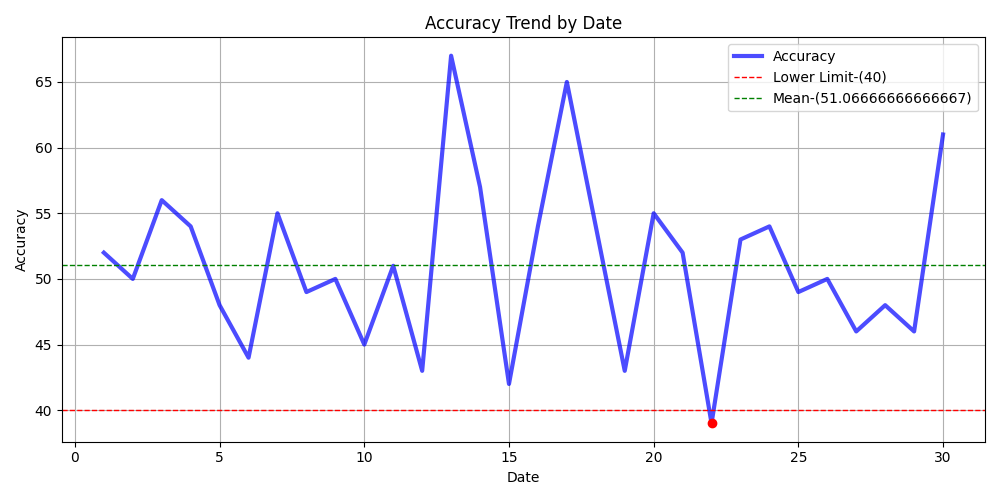
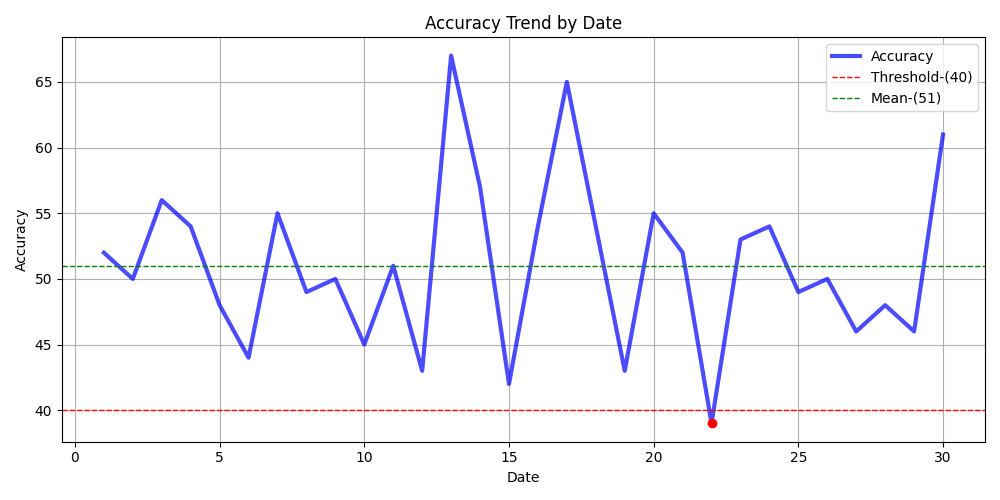
Model accuracy page modified

Changed region(s): [[0.062, 0.51, 0.992, 0.54], [0.713, 0.09, 0.992, 0.21]]

diff --git a/client/templates/Client/modelAccuracy.html b/client/templates/Client/modelAccuracy.html
@@ -10,27 +10,39 @@
 
     <div class="alert alert-info" role="alert">
         <b><h4>Description:</h4></b>
-        Number of times candidates were classified as Genuine as a percentage of times when they should have been classified as Genuine. 
-        <br>TNR = True Negative / (True Negative + False Positive)
+        Number of times candidates were classified as Suspect as a percentage of times when they should have been classified as Suspect. 
+        <br>TPR = True Positive / (True Positive + False Negative)
     </div>
     
     <!-- Overall Specificity -->
     <div class="card shadow-lg mb-4">
         <div class="card-body text-center">
             <h3 class="text-primary font-weight-bold">Overall Specificity as on {{ on_date|date:"d-m-y" }}</h3>
-            <h2 class="text-success font-weight-bold">{{ overall_tnr }}%</h2>
+            <h2 class="text-success font-weight-bold">{{ overall_tpr }}%</h2>
         </div>
     </div>
     
     <!-- Accuracy Trend by Date and Gender -->
     <div class="text-center mb-4">
-        <h3 class="text-secondary font-weight-bold">Specificity Trend by Date and Gender</h3>
+        <h3 class="text-secondary font-weight-bold">Sensitivity Trend for Men</h3>
     </div>
     
     <div class="card shadow-lg mb-5">
         <div class="card-body">
             <div class="graph-container text-center">
-                <img src="/{{ graph }}" alt="Specificity Trend Graph" class="img-fluid rounded mx-auto d-block">
+                <img src="/{{ graph.Male }}" alt="Sensitivity Trend Graph for Men" class="img-fluid rounded mx-auto d-block">
+            </div>
+        </div>
+    </div>
+
+    <div class="text-center mb-4">
+        <h3 class="text-secondary font-weight-bold">Sensitivity Trend for Women</h3>
+    </div>
+
+    <div class="card shadow-lg mb-5">
+        <div class="card-body">
+            <div class="graph-container text-center">
+                <img src="/{{ graph.Female }}" alt="Sensitivity Trend Graph for Women" class="img-fluid rounded mx-auto d-block">
             </div>
         </div>
     </div>
@@ -57,13 +69,17 @@
         <ul class="list-group">
             {% for city, observations in location_table.items %}
                 {% with rpn=observations|get_item:'RPN' %}
-                    <li class="list-group-item 
-                        {% if rpn > 6 %} text-danger {% elif rpn >= 4 %} text-warning {% else %} text-success {% endif %}">
+                    <li class="list-group-item">
                         <b>{{ city }}</b> has a Risk Priority Number of <strong>{{ rpn }}</strong>
                     </li>
                 {% endwith %}
             {% endfor %}
         </ul>
+    </div>
+
+    <div class="container mt-4">
+        <h5><strong>{{high_rpn_location}}</strong> has a high risk priority number because of a combination of high associate count and low accuracy.</h5>
+        <h5><strong>{{high_rpn_gender}}</strong> have a high risk priority number because of a combination of high associate count and low accuracy.</h5>
     </div>
 
 </div>

diff --git a/client/templates/Client/overallAccuracy.html b/client/templates/Client/overallAccuracy.html
@@ -85,7 +85,7 @@
             <br>
             This is a good starting point to start tracking the model effectiveness and
             can be easily used by leadership to check if the model is decaying or if
-            there is an issue with the data in any speci c Location, Gender or Age
+            there is an issue with the data in any specific Location, Gender or Age
             Group. <br><br>
             Based on the above observation - the organization will need to ag this
             data to the AI Service provider who will need to do a feature-level drill

diff --git a/client/views.py b/client/views.py
@@ -5,7 +5,7 @@ from .models import Client, ClientUser
 from django.contrib.auth.decorators import login_required
 from django.contrib.auth import authenticate, login
 from django.shortcuts import redirect
-from .utils import generateDateWisePivot, generateLocationWisePivot, generateGenderWisePivot, findAccuracy, findTotal, findTNR, findDemographicParity
+from .utils import generateDateWisePivot, generateLocationWisePivot, generateGenderWisePivot, findAccuracy, findTotal, findTPR, findDemographicParity, fillLevels
 import matplotlib
 import matplotlib.pyplot as plt
 matplotlib.use("Agg") 
@@ -78,7 +78,7 @@ def overallAccuracyView(request):
         dates = [date for date in dateWisePivot]
         graph_dates = [date.day for date in dateWisePivot]
 
-        accuracies_mean = mean(accuracies)
+        accuracies_mean = int(mean(accuracies))
         lower_limit = 40
         
         plt.figure(figsize=(10, 5))
@@ -94,10 +94,9 @@ def overallAccuracyView(request):
         print(type(on_date))
 
         plt.xlabel('Date')
-        # plt.xticks(rotation=45)
         plt.ylabel('Accuracy')
         plt.title('Accuracy Trend by Date')
-        plt.axhline(y=lower_limit, color="r", linestyle="--", linewidth=1, label=f"Lower Limit-({lower_limit})")
+        plt.axhline(y=lower_limit, color="r", linestyle="--", linewidth=1, label=f"Threshold-({lower_limit})")
         plt.axhline(y=accuracies_mean, color="g", linestyle="--", linewidth=1, label=f"Mean-({accuracies_mean})")
 
         plt.legend()
@@ -112,6 +111,52 @@ def overallAccuracyView(request):
     return Http404()
 
 def modelAccuracyView(request):
+    def generate_graph(gender, tpr, clr):
+        plt.figure(figsize=(10, 5))
+        plt.plot(graph_dates, tpr, label=gender, color=clr, linestyle='-', alpha=0.7)
+        plt.xlabel('Date')
+        plt.ylabel('Sensitivity')
+        plt.title(f'Sensitivity Trend for {gender}')
+        for date, tpr in zip(dates, tpr):
+            if tpr < lsl[gender] or tpr > usl[gender]:
+                plt.plot(date.day, tpr, 'bo' if clr == 'blue' else 'ro')
+        plt.grid(True)
+        plt.axhline(y=usl[gender], color="r", linestyle="--", linewidth=1, label=f"Upper Limit ({usl[gender]})")
+        plt.axhline(y=lsl[gender], color="g", linestyle="--", linewidth=1, label=f"Lower Limit ({lsl[gender]})")
+        plt.axhline(y=tpr_mean[gender], color="y", linestyle="--", linewidth=1, label=f"Mean ({tpr_mean[gender]})")
+        plt.tight_layout()
+        plt.legend()
+        file_path = os.path.join(settings.MEDIA_ROOT, f"sensitivityTrend{gender}.png")
+        plt.savefig(file_path, format="png", dpi=100)
+        plt.close()
+    
+    def findGenderRPN():
+        gender_table['Male']['Accuracy'] = findAccuracy(gender_table['Male'])
+        gender_table['Male']['Total'] = findTotal(gender_table['Male'])
+        gender_table['Female']['Accuracy'] = findAccuracy(gender_table['Female'])
+        gender_table['Female']['Total'] = findTotal(gender_table['Female'])
+
+        if gender_table['Male']['Total'] > gender_table['Female']['Total']:
+            gender_table['Male']['Candidate Count Level'] = 2
+            gender_table['Female']['Candidate Count Level'] = 1
+        else:
+            gender_table['Male']['Candidate Count Level'] = 1
+            gender_table['Female']['Candidate Count Level'] = 2
+
+        if gender_table['Male']['Accuracy'] > gender_table['Female']['Accuracy']:
+            gender_table['Male']['Accuracy Level'] = 2
+            gender_table['Female']['Accuracy Level'] = 1
+        else:
+            gender_table['Male']['Accuracy Level'] = 1
+            gender_table['Female']['Accuracy Level'] = 2
+        
+        gender_table['Male']['RPN'] = gender_table['Male']['Accuracy Level'] * gender_table['Male']['Candidate Count Level']
+        gender_table['Female']['RPN'] = gender_table['Female']['Accuracy Level'] * gender_table['Female']['Candidate Count Level']
+
+        if gender_table['Male']['RPN'] > gender_table['Female']['RPN']:
+            return "Male"
+        return "Female"
+
     if request.method == "POST":
         user = request.user
         client_id = user.client.id
@@ -120,54 +165,46 @@ def modelAccuracyView(request):
         genderWisePivot = generateGenderWisePivot(client_table_name = f'Client Data-{client_id}-{engagement_id}', result_table_name = f'Result-{client_id}-{engagement_id}', primary_key = 'Candidate ID')
         locationWisePivot = generateLocationWisePivot(client_table_name = f'Client Data-{client_id}-{engagement_id}', result_table_name = f'Result-{client_id}-{engagement_id}', primary_key = 'Candidate ID')
 
-        location_table = dict.fromkeys(list(locationWisePivot.keys())[:3])
-        for city in location_table:
-            location_table[city] = {'RPN':locationWisePivot[city]['Risk Priority Number']}
+        location_table = {}
+        locations = list(locationWisePivot.keys())[:3]
+        high_rpn_location = locations[0]
+        for location in locations:
+            location_table[location] = {}
+            location_table[location]['RPN'] = locationWisePivot[location]['Risk Priority Number']
 
         dates = [date for date in dateWisePivot]
         graph_dates = [date.day for date in dates]
 
-        total_tn, total_fp = 0, 0
+        total_tp, total_fn = 0, 0
+        gender_table = {}
+        for gender in genderWisePivot:
+            gender_table[gender] = {'True Positive':0, 'True Negative':0, 'False Positive':0, 'False Negative':0}
+
         for date in dates:
-            total_tn += dateWisePivot[date]['True Negative']
-            total_fp += dateWisePivot[date]['False Positive']
+            total_tp += dateWisePivot[date]['True Positive']
+            total_fn += dateWisePivot[date]['False Negative']
 
-        overall_tnr = (total_tn * 100)// (total_tn + total_fp)
+            for obs in gender_table['Male']:
+                gender_table['Male'][obs] += genderWisePivot['Male'][date][obs]
+                gender_table['Female'][obs] += genderWisePivot['Female'][date][obs]
 
-        tnr_men = [findTNR(genderWisePivot['Male'][date]) for date in dates]
-        tnr_women = [findTNR(genderWisePivot['Female'][date]) for date in dates]
-        tnr_dateWise = [dateWisePivot[date]['TNR'] for date in dates]
+        high_rpn_gender = findGenderRPN()
 
-        tnr_mean = int(mean(tnr_dateWise))
-        tnr_std = int(stdev(tnr_dateWise))
-        usl, lsl = tnr_mean + (2 * tnr_std), tnr_mean - (2 * tnr_std)
+        overall_tpr = (total_tp * 100) // (total_tp + total_fn)
 
-        plt.figure(figsize=(10, 5))
-        plt.plot(graph_dates, tnr_men, label='Men', color='blue', linestyle='-', alpha=0.7)
-        plt.plot(graph_dates, tnr_women, label='Women', color='red', linestyle='-', alpha=0.7)
-        
-        for date, tnr in zip(dates, tnr_men):
-            if tnr < lsl or tnr > usl:
-                plt.plot(date.day, tnr, 'bo')
+        tpr_men = [findTPR(genderWisePivot['Male'][date]) for date in dates]
+        tpr_women = [findTPR(genderWisePivot['Female'][date]) for date in dates]
 
-        for date, tnr in zip(dates, tnr_women):
-            if tnr < lsl or tnr > usl:
-                plt.plot(date.day, tnr, 'ro')
+        tpr_mean = {'Male':int(mean(tpr_men)), 'Female':int(mean(tpr_women))}
+        tpr_std = {'Male':int(stdev(tpr_men)), 'Female':int(stdev(tpr_women))}
 
-        plt.xlabel('Date')
-        plt.ylabel('Specificity')
-        plt.title('Specificity Trend by Date and Gender')
-        plt.grid(True)
-        plt.axhline(y=usl, color="r", linestyle="--", linewidth=1, label=f"Upper Limit ({usl})")
-        plt.axhline(y=lsl, color="g", linestyle="--", linewidth=1, label=f"Lower Limit ({lsl})")
-        plt.tight_layout()
-        plt.legend()
+        usl = {'Male':tpr_mean['Male'] + (2 * tpr_std['Male']), 'Female':tpr_mean['Female'] + (2 * tpr_std['Female'])}
+        lsl = {'Male':tpr_mean['Male'] - (2 * tpr_std['Male']), 'Female':tpr_mean['Female'] - (2 * tpr_std['Female'])}
 
-        file_path = os.path.join(settings.MEDIA_ROOT, "dateGenderSpecifictyGraph.png")
-        plt.savefig(file_path, format="png", dpi=100)
-        plt.close()
+        generate_graph('Male', tpr_men, 'blue')
+        generate_graph('Female', tpr_women, 'red')
 
-        return render(request, 'Client/modelAccuracy.html', {'overall_tnr':overall_tnr, "graph":'media/dateGenderSpecifictyGraph.png', 'on_date':dates[-1], 'location_table':location_table})
+        return render(request, 'Client/modelAccuracy.html', {'overall_tpr':overall_tpr, "graph":{'Male':'media/sensitivityTrendMale.png', 'Female':'media/sensitivityTrendFemale.png'},  'on_date':dates[-1], 'high_rpn_location':high_rpn_location, 'high_rpn_gender':high_rpn_gender, 'location_table':location_table})
     return Http404()
 
 def modelInclusivityView(request):
@@ -209,14 +246,12 @@ def modelInclusivityView(request):
         plt.legend()
         plt.grid(True)
         
-
         file_path = os.path.join(settings.MEDIA_ROOT, "dateGenderDemographicDeltaGraph.png")
         plt.savefig(file_path, format="png", dpi=100)
         plt.close()
 
         return render(request, 'Client/modelInclusivity.html', {'graph':'media/dateGenderDemographicDeltaGraph.png', 'higher_dp_location':higher_dp_location[1], 'location_dp_value':higher_dp_location[0], 'higher_dp_gender':higher_dp_gender[1], 'gender_dp_value':higher_dp_gender[0], 'dp_diff':dp_diff })
     return Http404()
-
 
 def aboutView(request):
     return render(request, 'Client/about.html')

diff --git a/client/utils/calculations.py b/client/utils/calculations.py
@@ -6,33 +6,24 @@ def findAccuracy(observations):
 def findDemographicParity(observations):
     return ((observations["True Positive"] + observations["False Positive"]) *100) // (observations["True Positive"] + observations["True Negative"] + observations["False Negative"] + observations["False Positive"])
 
-def findTNR(observations_on_a_date):
-    return (observations_on_a_date["True Negative"] * 100) // (observations_on_a_date["True Negative"] + observations_on_a_date["False Positive"])
-
-def findAccuracyLevel(accuracy):
-    if accuracy >= 80:
-        return 1
-    elif accuracy >= 70:
-        return 2
-    return 3
+def findTPR(observations_on_a_date):
+    return (observations_on_a_date["True Positive"] * 100) // (observations_on_a_date["True Positive"] + observations_on_a_date["False Negative"])
 
 def findTotal(observations):
     return (observations["True Positive"] + observations["True Negative"] + observations["False Negative"] + observations["False Positive"])
 
-def fillCandidateCountLevels(location_wise_observations):
-    data = {'totals' : [location_wise_observations[location]['Total'] for location in location_wise_observations]}
-    df = pd.DataFrame(data)
-    mean = df['totals'].mean()
-    std = df['totals'].std()
+def fillLevels(location_wise_observations):
+    candidate_location_data = [(location_wise_observations[location]['Total'], location) for location in location_wise_observations]
+    location_accuracy_data = [(location_wise_observations[location]['Overall Accuracy'], location) for location in location_wise_observations]
+    num_locations = len(candidate_location_data)
 
-    # Categorize the data
-    for location in location_wise_observations:
-        if location_wise_observations[location]['Total'] > mean + std:
-            location_wise_observations[location]['Candidate Count Level'] = 3
-        elif location_wise_observations[location]['Total'] >= mean - std and location_wise_observations[location]['Total'] <= mean + std:
-            location_wise_observations[location]['Candidate Count Level'] = 2
-        else:
-            location_wise_observations[location]['Candidate Count Level'] = 1
+    candidate_location_data.sort(key = lambda x : x[0], reverse = True)
+    for i in range(num_locations):
+        location_wise_observations[candidate_location_data[i][1]]['Candidate Count Level'] = num_locations - i
+
+    location_accuracy_data.sort(key = lambda x : x[0])
+    for i in range(num_locations):
+        location_wise_observations[location_accuracy_data[i][1]]['Accuracy Level'] = i + 1
 
     return location_wise_observations
 

diff --git a/client/utils/pivot.py b/client/utils/pivot.py
@@ -1,7 +1,7 @@
 import psycopg2
 import pandas as pd
 from django.conf import settings
-from client.utils.calculations import findAccuracy, findTNR, findTotal, findAccuracyLevel, fillCandidateCountLevels, fillRiskPriorityNumbers, findDemographicParity
+from client.utils.calculations import findAccuracy, findTPR, findTotal, fillLevels, fillRiskPriorityNumbers, findDemographicParity
 
 def generateDateWisePivot(result_table_name):
     conn = psycopg2.connect(
@@ -23,7 +23,7 @@ def generateDateWisePivot(result_table_name):
     
     for date in date_wise_observations:
         date_wise_observations[date]['Overall Accuracy'] = findAccuracy(date_wise_observations[date])
-        date_wise_observations[date]['TNR'] = findTNR(date_wise_observations[date])
+        date_wise_observations[date]['TPR'] = findTPR(date_wise_observations[date])
         date_wise_observations[date]['Total'] = findTotal(date_wise_observations[date])
     
     conn.close()
@@ -49,10 +49,9 @@ def generateLocationWisePivot(result_table_name, client_table_name, primary_key)
     location_wise_observations = df.groupby("Location").apply(lambda x: x.set_index('Observation type')['count'].to_dict()).to_dict()
     for location in location_wise_observations:
         location_wise_observations[location]['Overall Accuracy'] = findAccuracy(location_wise_observations[location])
-        location_wise_observations[location]['Accuracy Level'] = findAccuracyLevel(location_wise_observations[location]['Overall Accuracy'])
         location_wise_observations[location]['Total'] = findTotal(location_wise_observations[location])
     
-    location_wise_observations = fillCandidateCountLevels(location_wise_observations)
+    location_wise_observations = fillLevels(location_wise_observations)
     location_wise_observations = fillRiskPriorityNumbers(location_wise_observations)
   
     sorted_location_wise_observations = {}
